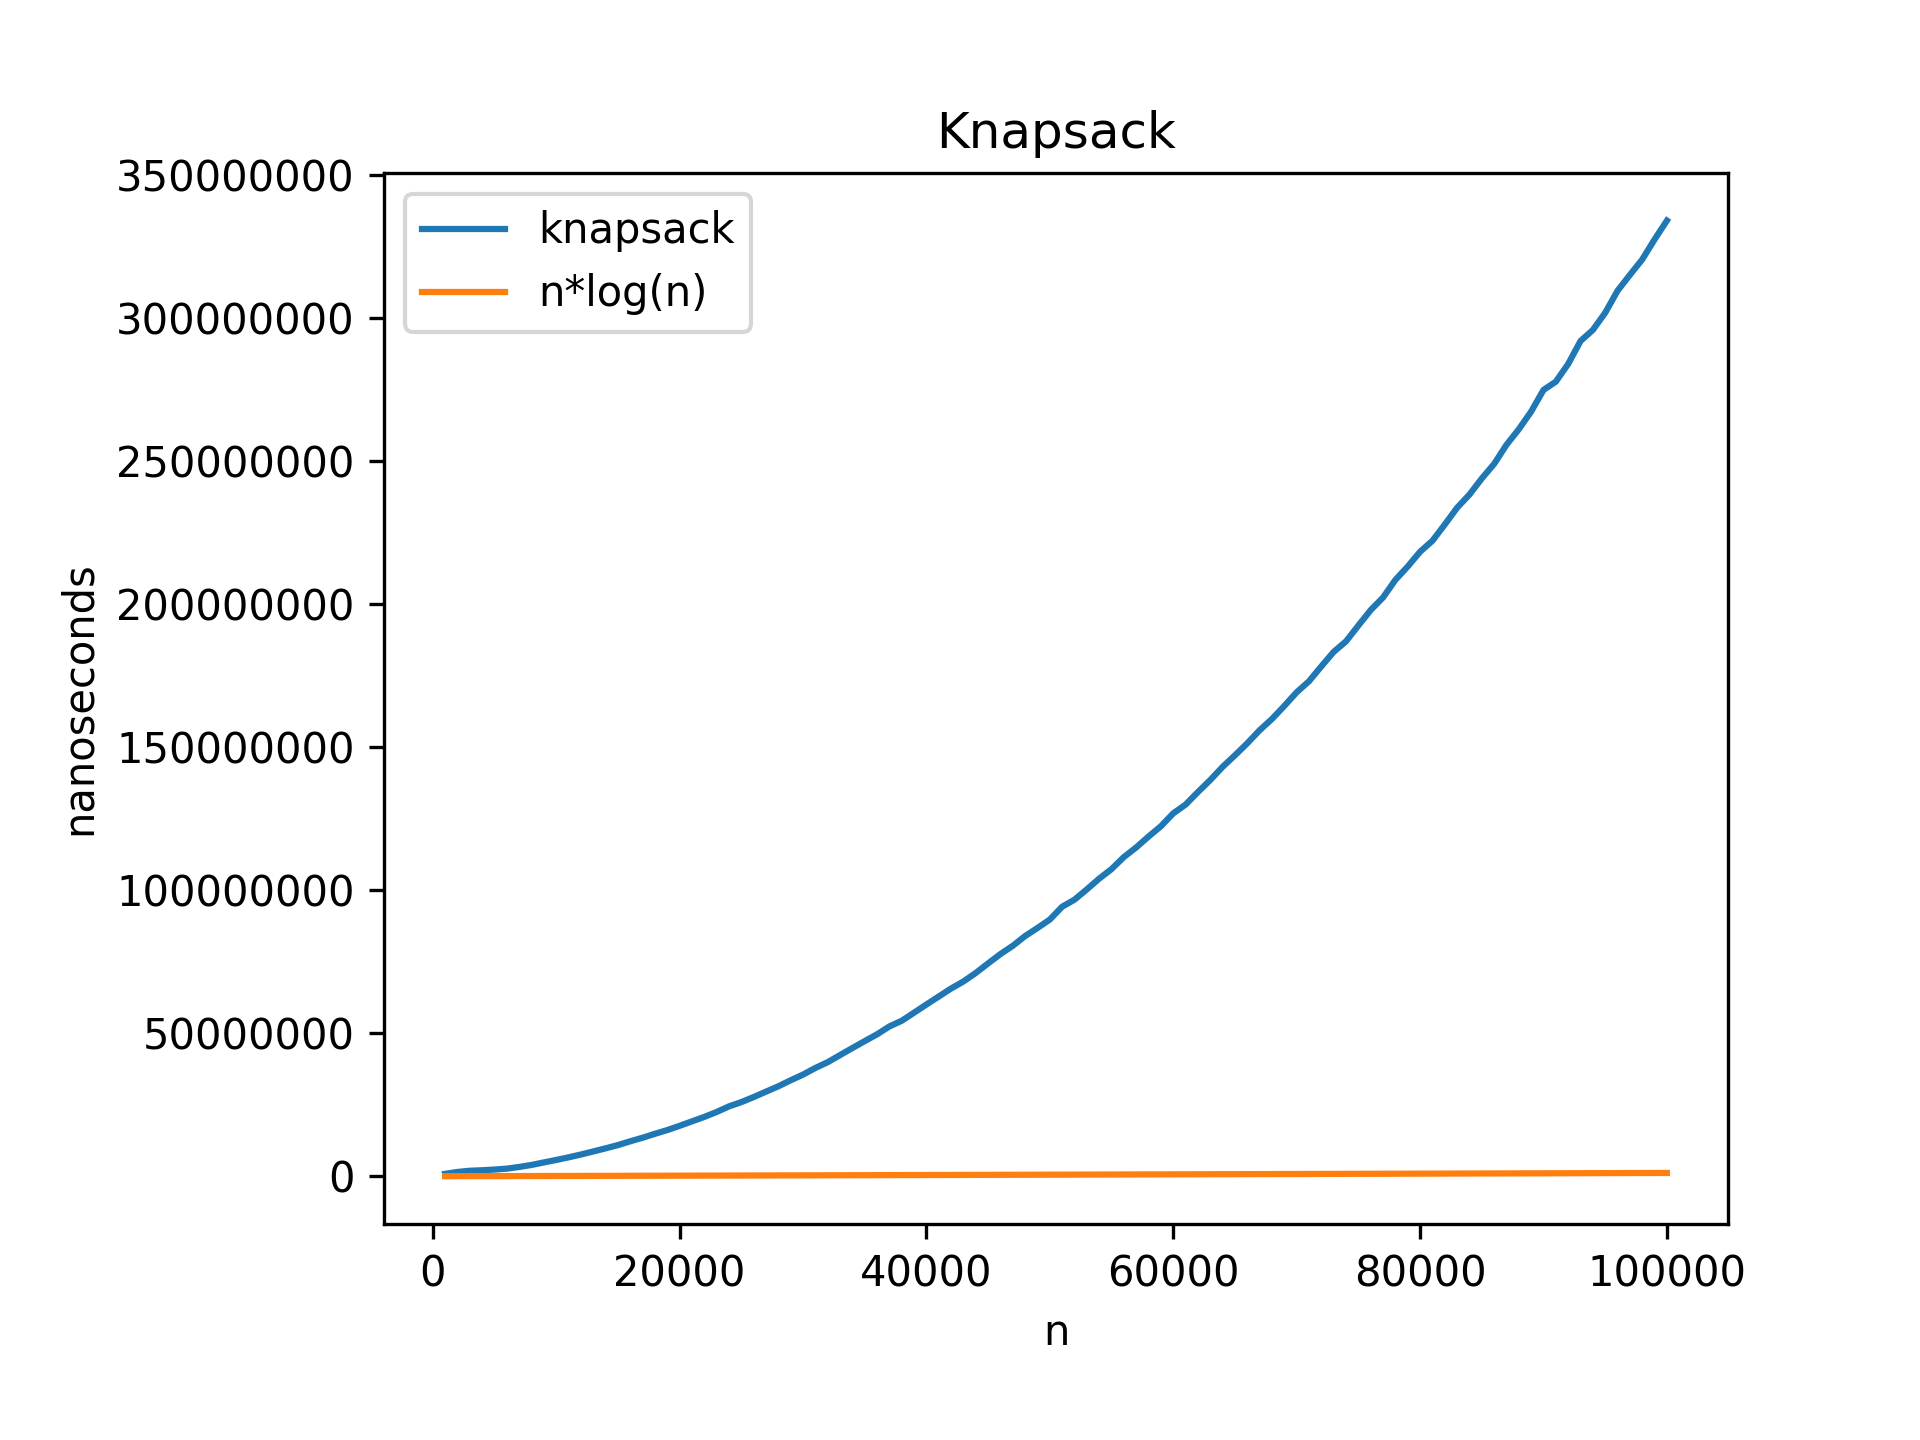
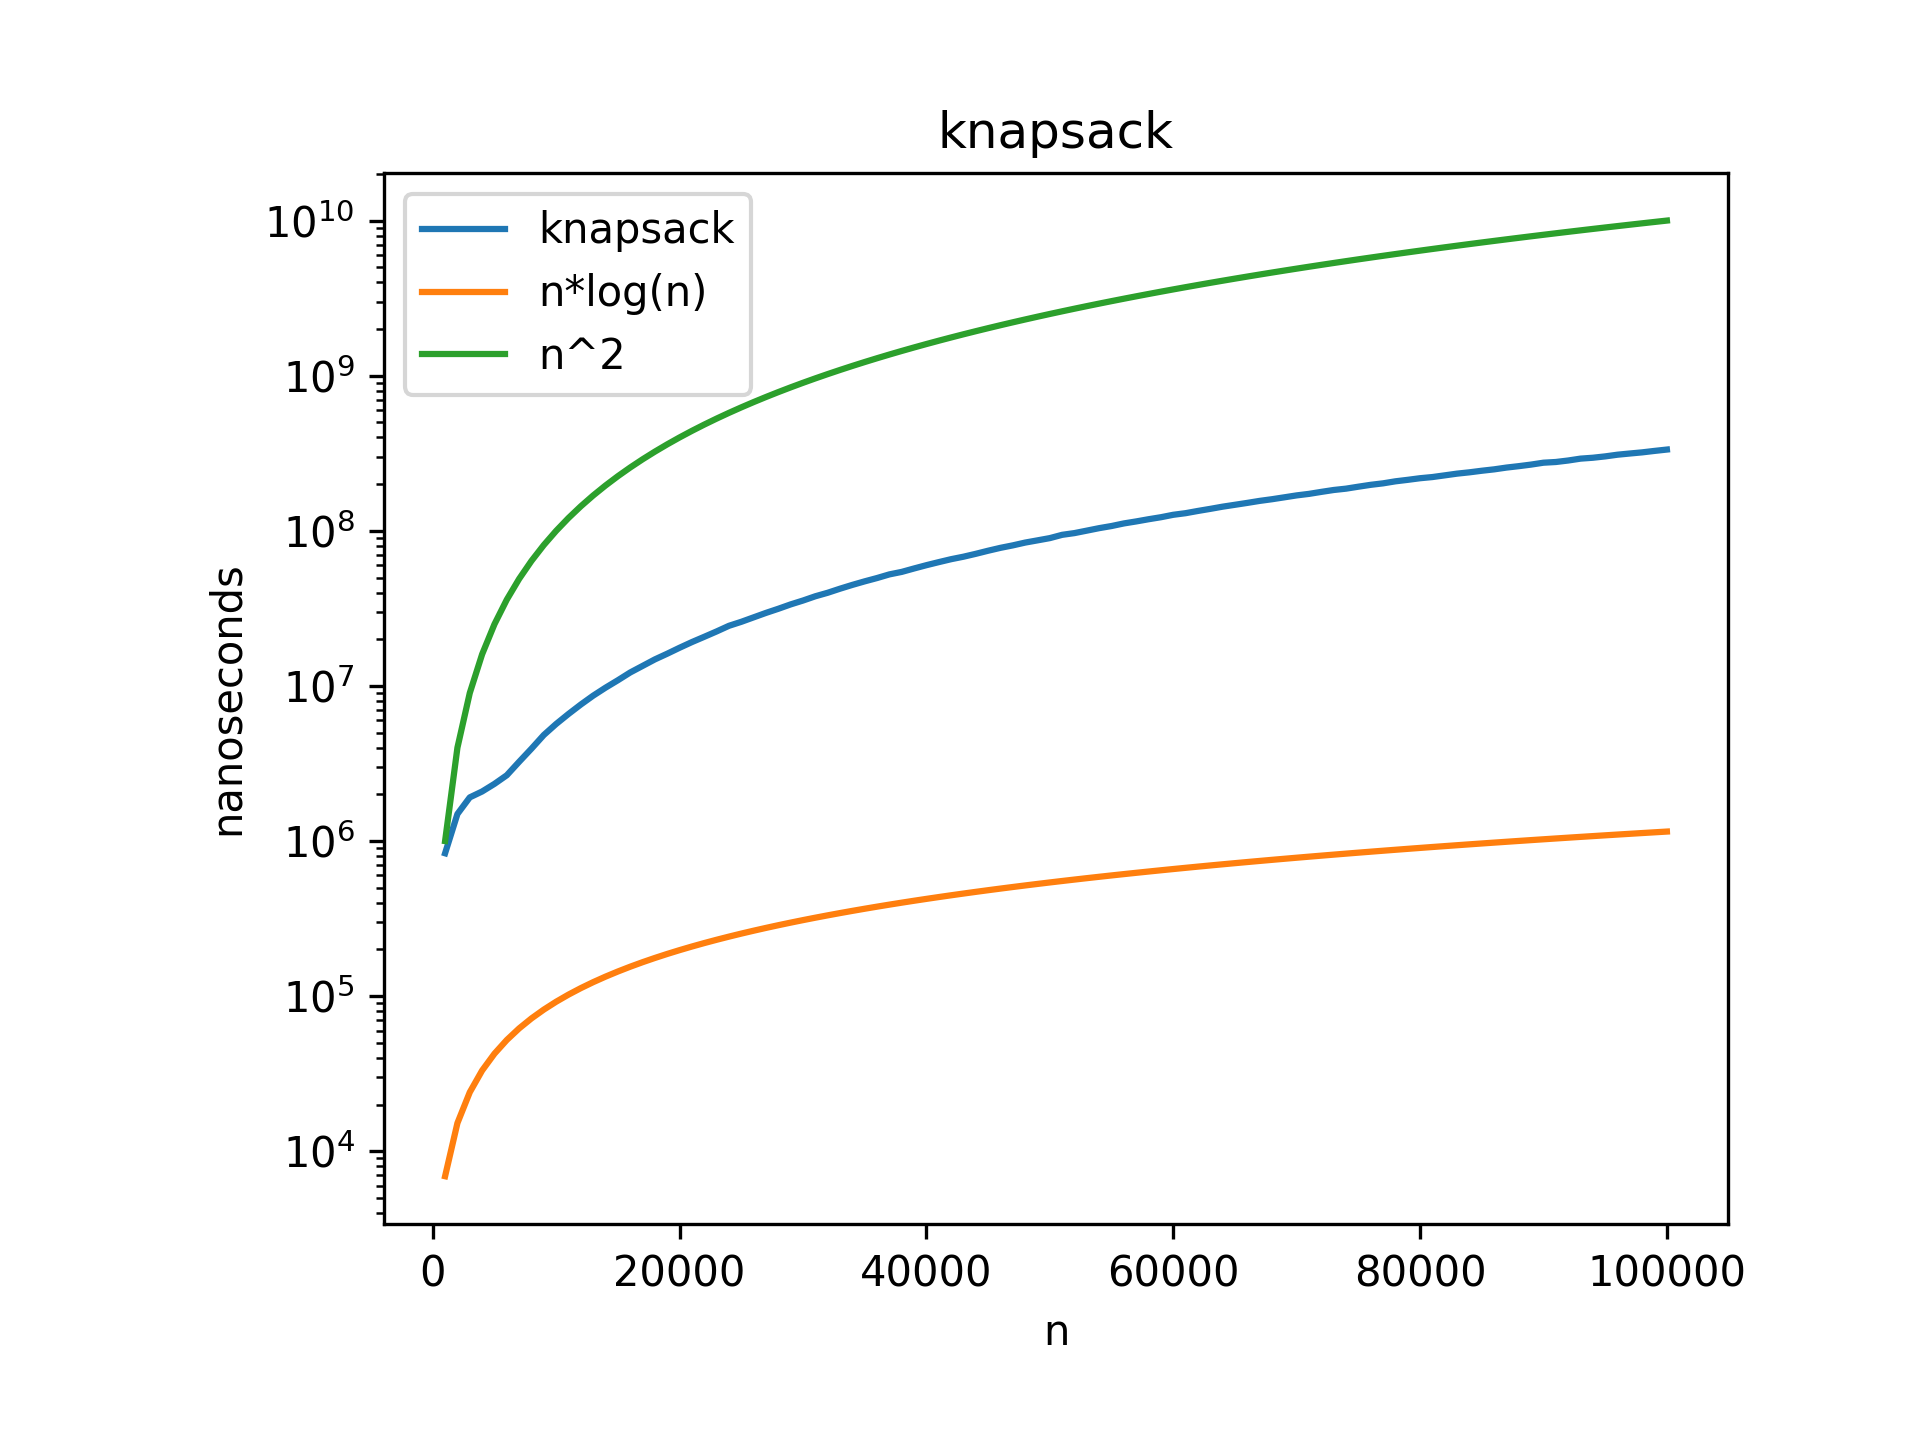
fixed knapsack image

diff --git a/plot/plot.py b/plot/plot.py
@@ -2,7 +2,7 @@ import matplotlib.pyplot as plt
 import numpy as np
 import pandas as pd
 
-sorting_algo = "magic_square"
+sorting_algo = "knapsack"
 df = pd.read_csv(f"./{sorting_algo}.csv")
 
 
